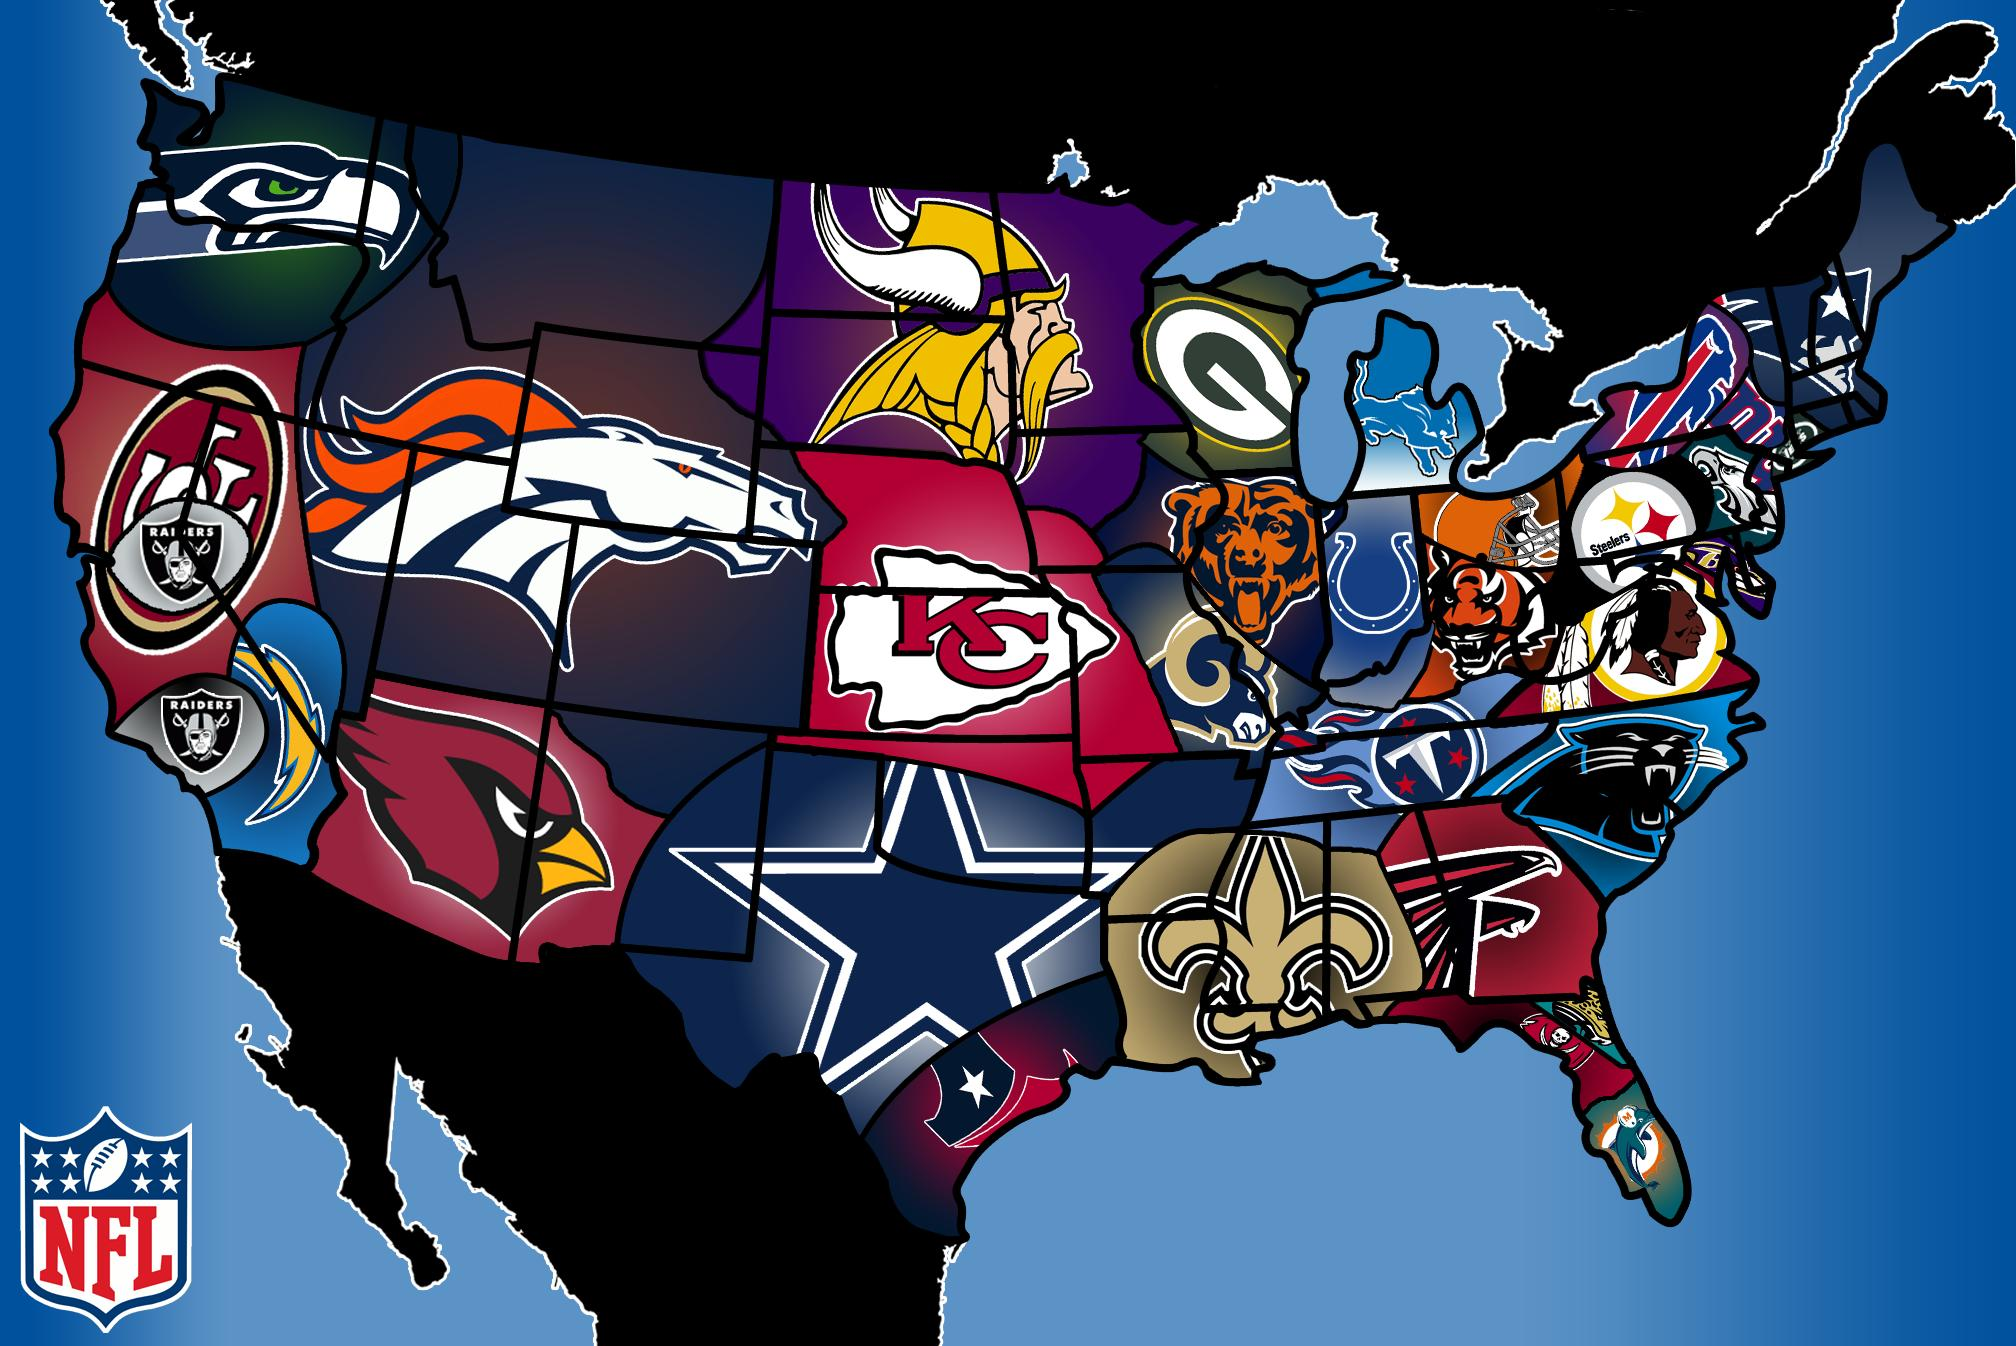
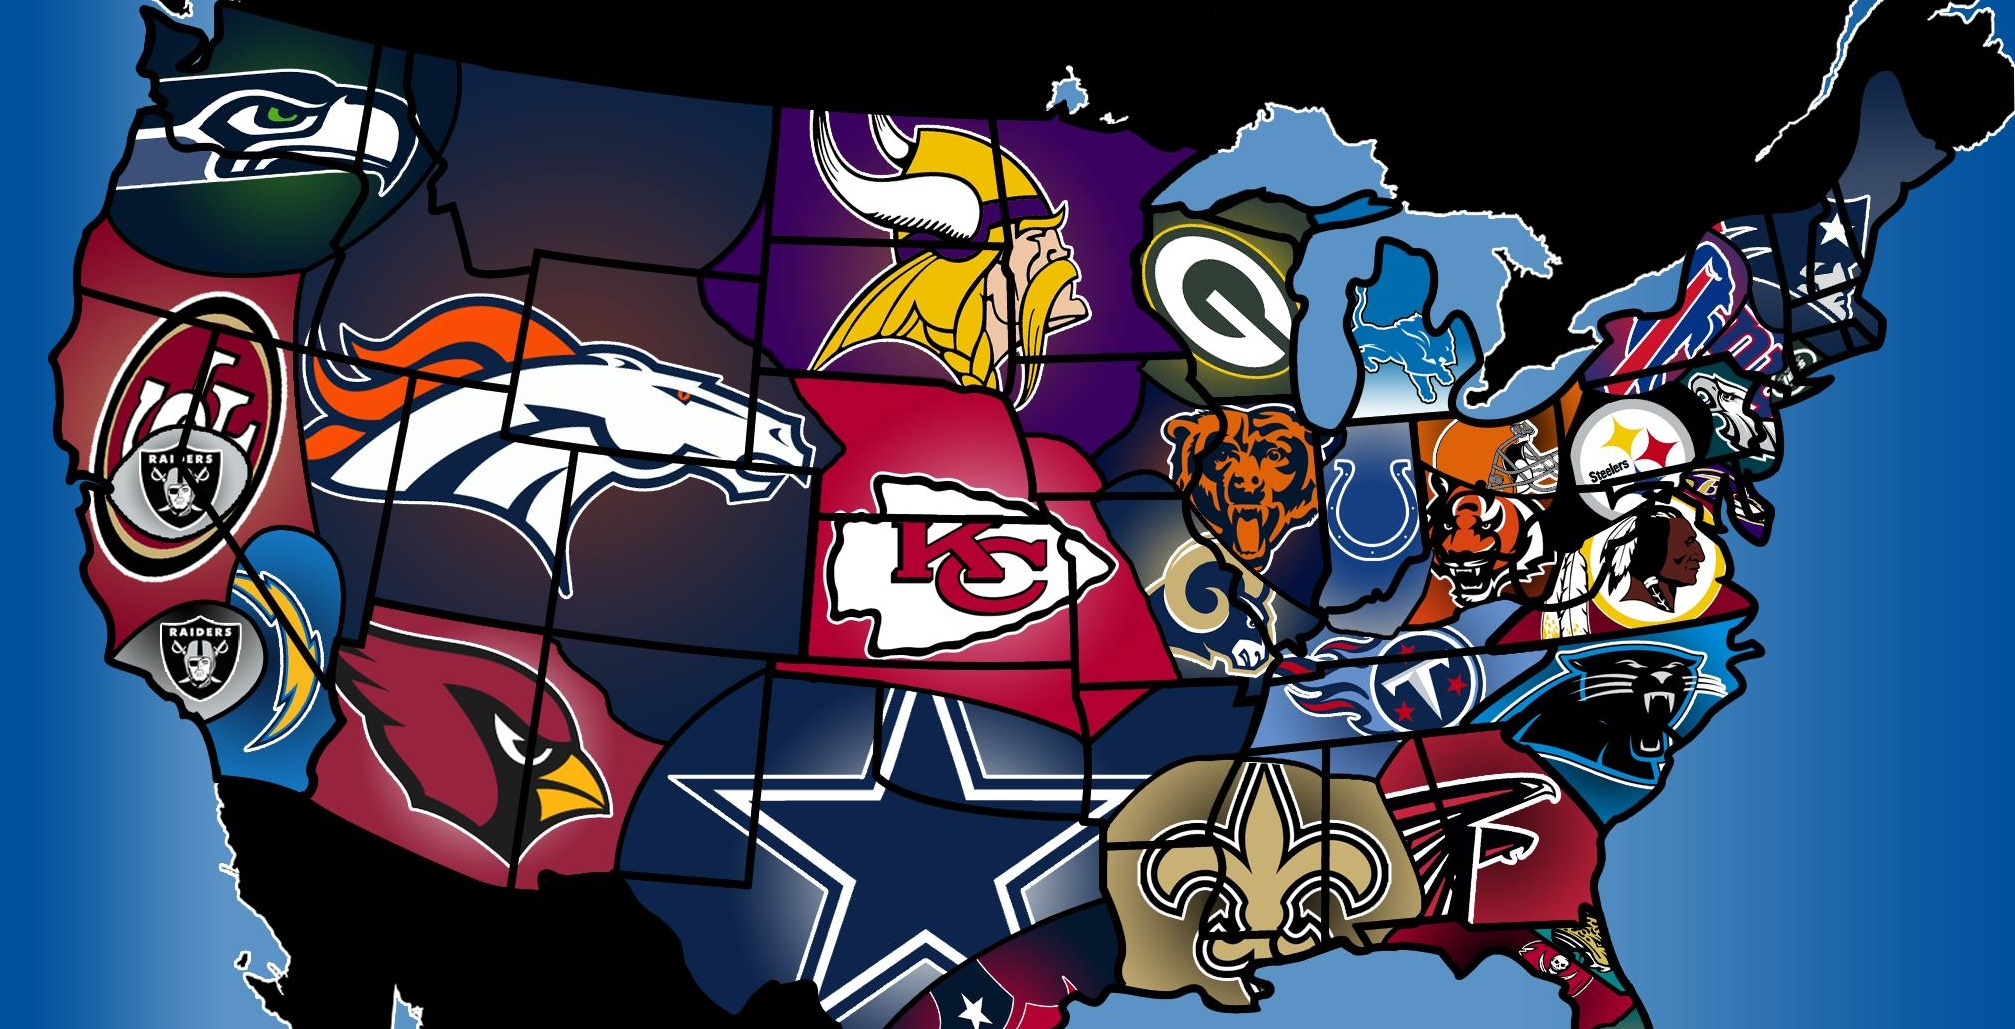
up to date, cropped home page pics

diff --git a/GC_FinalProject_FFLTool/Controllers/HomeController.cs b/GC_FinalProject_FFLTool/Controllers/HomeController.cs
@@ -20,13 +20,12 @@ namespace GC_FinalProject_FFLTool.Controllers
 
             return View();
         }
-        
 
-        public JObject ApiRequest(string pos, string lastName)
+        public JObject ApiRequest(string pos, string player)
         {
             /*** Cumulative Game Stats API Call ***/
             //HttpWebRequest WebReq = WebRequest.CreateHttp("https://api.mysportsfeeds.com/v1.1/pull/nfl/current/cumulative_player_stats.json?position=qb,rb,wr,te,k");
-            HttpWebRequest WebReq = WebRequest.CreateHttp($"https://api.mysportsfeeds.com/v1.1/pull/nfl/current/cumulative_player_stats.json?position={pos}&player={lastName}");
+            HttpWebRequest WebReq = WebRequest.CreateHttp($"https://api.mysportsfeeds.com/v1.1/pull/nfl/current/cumulative_player_stats.json{pos}{player}");
             WebReq.Headers.Add("Authorization", "Basic " + ConfigurationManager.AppSettings["AccessKey"]);
             WebReq.UserAgent = "Mozilla/5.0 (Windows NT 10.0; Win64; x64; rv:57.0) Gecko/20100101 Firefox/57.0";
             WebReq.Method = "GET";
@@ -38,27 +37,14 @@ namespace GC_FinalProject_FFLTool.Controllers
 
             JObject apiDataJSON = JObject.Parse(apiData);
 
-            //ViewBag.Data = apiDataJSON;
-            //ViewBag.Players = apiDataJSON["activeplayers"]["playerentry"];
-            //ViewBag.Players = apiDataJSON["cumulativeplayerstats"]["playerstatsentry"];
-
-            // return View("AllPlayersView");
-            //return View();
-
             return apiDataJSON;
         }
-
-
-
-
-
-
 
         public JObject ApiRequest(string pos)
         {
             /*** Cumulative Game Stats API Call ***/
             //HttpWebRequest WebReq = WebRequest.CreateHttp("https://api.mysportsfeeds.com/v1.1/pull/nfl/current/cumulative_player_stats.json?position=qb,rb,wr,te,k");
-            HttpWebRequest WebReq = WebRequest.CreateHttp($"https://api.mysportsfeeds.com/v1.1/pull/nfl/current/cumulative_player_stats.json?{pos}");
+            HttpWebRequest WebReq = WebRequest.CreateHttp($"https://api.mysportsfeeds.com/v1.1/pull/nfl/current/cumulative_player_stats.json{pos}");
             WebReq.Headers.Add("Authorization", "Basic " + ConfigurationManager.AppSettings["AccessKey"]);
             WebReq.UserAgent = "Mozilla/5.0 (Windows NT 10.0; Win64; x64; rv:57.0) Gecko/20100101 Firefox/57.0";
             WebReq.Method = "GET";
@@ -69,13 +55,6 @@ namespace GC_FinalProject_FFLTool.Controllers
             string apiData = reader.ReadToEnd();
 
             JObject apiDataJSON = JObject.Parse(apiData);
-
-            //ViewBag.Data = apiDataJSON;
-            //ViewBag.Players = apiDataJSON["activeplayers"]["playerentry"];
-            //ViewBag.Players = apiDataJSON["cumulativeplayerstats"]["playerstatsentry"];
-
-            // return View("AllPlayersView");
-            //return View();
 
             return apiDataJSON;
         }
@@ -94,50 +73,92 @@ namespace GC_FinalProject_FFLTool.Controllers
 
         public ActionResult ShowAllPlayers()
         {
-            JObject players = ApiRequest("position=qb,rb,wr,te,k");
+            JObject players = ApiRequest("?position=qb,rb,wr,te,k");
 
             ViewBag.Players = players["cumulativeplayerstats"]["playerstatsentry"];
 
             return View("AllPlayersView");
         }
 
-        public ActionResult SearchPlayers(string player, string pos)
+        public ActionResult SearchPlayers(string pos, string player)
         {
             JObject players;
+
             if (pos == "QB")
             {
-                players = ApiRequest("position=qb", player);
+                if (player != null)
+                {
+                    players = ApiRequest("?position=qb", "&player=" + player.ToLower());
+                }
+                else
+                {
+                    players = ApiRequest("?position=qb&sort=stats.Yds.D");
+                }
 
             }
             else if (pos == "WR")
             {
-                players = ApiRequest("position=wr", player);
+                if (player != null)
+                {
+                    players = ApiRequest("?position=wr", "&player=" + player.ToLower());
+                }
+                else
+                {
+                    players = ApiRequest("?position=wr&sort=stats.TD.D");
+                }
 
             }
             else if (pos == "RB")
             {
-                players = ApiRequest("position=rb", player);
+                if (player != null)
+                {
+                    players = ApiRequest("?position=rb", "&player=" + player.ToLower());
+                }
+                else
+                {
+                    players = ApiRequest("?position=rb&sort=stats.Yds.D");
+                }
 
             }
             else if (pos == "TE")
             {
-                players = ApiRequest("position=te", player);
+                if (player != null)
+                {
+                    players = ApiRequest("?position=te", "&player=" + player.ToLower());
+                }
+                else
+                {
+                    players = ApiRequest("?position=te&sort=stats.Yds.D");
+                }
 
             }
             else if (pos == "K")
             {
-                players = ApiRequest("position=k", player);
+                if (player != null)
+                {
+                    players = ApiRequest("?position=k", "&player=" + player.ToLower());
+                }
+                else
+                {
+                    players = ApiRequest("?position=k&sort=stats.Made.D");
+                }
             }
             else
             {
-                players = ApiRequest("position=qb,rb,wr,te,k", player);
+                if (player != null)
+                {
+                    players = ApiRequest("?position=qb,rb,wr,te,k", "&player=" + player.ToLower());
+                }
+                else
+                {
+                    players = ApiRequest("?position=qb,rb,wr,te,k");
+                }
             }
-            //JObject players = ApiRequest("position=qb,rb,wr,te,k&player=" + player);
+
             ViewBag.Players = players["cumulativeplayerstats"]["playerstatsentry"];
             ViewBag.Pos = pos;
 
             return View("AllPlayersView");
-
         }
     }
 }
